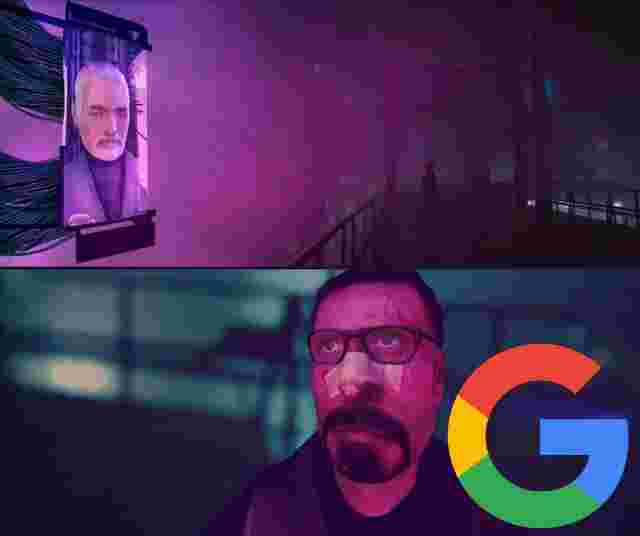
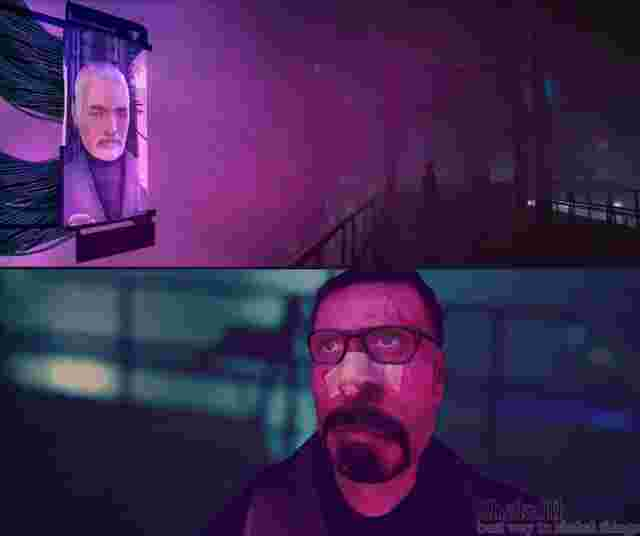
files

Changed region(s): [[0.6875, 0.6269, 1.0, 1.0]]

diff --git a/Shakkaler/FileMethods.cs b/Shakkaler/FileMethods.cs
@@ -76,7 +76,7 @@ namespace Shakkaler
             try
             {
                 image.Composite(watermark, Gravity.Southeast, CompositeOperator.Over);
-                image.Evaluate(Channels.Alpha, EvaluateOperator.Divide,4);
+                image.Evaluate(Channels.Alpha, EvaluateOperator.Divide,10);
             }
             catch (MagickException e)
             {
